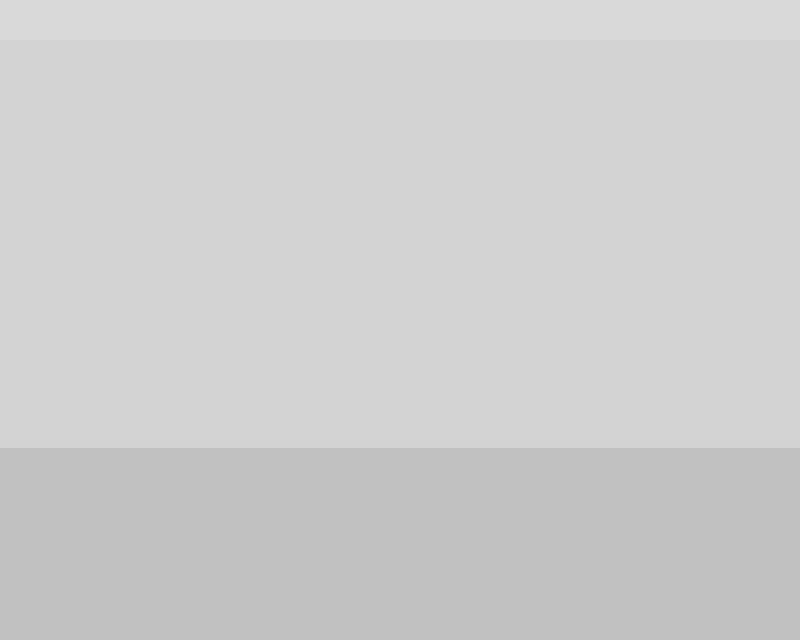
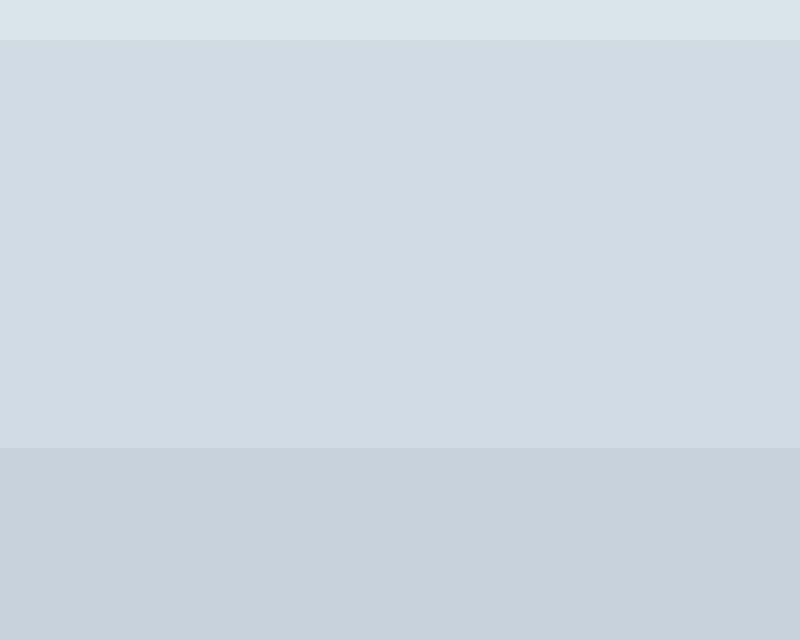
color changes

Changed region(s): [[0.0, 0.6875, 1.0, 1.0]]

diff --git a/css/style.css b/css/style.css
@@ -61,21 +61,21 @@ body img {
 }
 .TopNav div:nth-child(1) {
   /* background-color: #dbe6eb; */
-  background-color: rgb(233, 233, 233);
+  background-color: #f0fcff;
 }
 .TopNav div:nth-child(2) {
   /* background-color: #c6deea; */
-  background-color: rgb(228, 228, 228);
+  background-color: #eafbff;
 }
 .TopNav div:nth-child(3) {
   /* background-color: #bcd9e8; */
-  background-color: rgb(216, 216, 216);
+  background-color: #e2f9ff;
   /*border-bottom: 1vh solid #88afc2; */
-  border-bottom: 1vh solid rgb(169, 169, 169);
+  border-bottom: 1vh solid rgb(192, 205, 212);
 }
 
 .MainContent {
-  background-color: rgb(265, 265, 265);
+  background-color: #f4f9ff;
   min-height: calc(100vh - 15vh - 15vh);
   overflow-y: auto;
   box-sizing: border-box;
@@ -90,15 +90,15 @@ body img {
 }
 .BottomNav > div:nth-child(1) {
   background-color: rgb(245, 245, 245);
-  border-top: 1vh solid rgb(180, 180, 180);
+  border-top: 1vh solid rgb(180, 194, 201);
   /* border-top: 1vh solid #97c0d4; */
   width: 100%;
   z-index: 3;
 }
 .BottomNav > div:nth-child(2) {
-  background-color: rgb(233, 233, 233);
+  background-color: #deecef;
   /* background-color: #dbe6eb; */
-  border-bottom: 1vh solid rgb(190, 190, 190);
+  border-bottom: 1vh solid rgb(193, 212, 214);
   /* border-bottom: 1vh solid #97c0d4; */
   z-index: 3;
 }
@@ -119,7 +119,7 @@ body img {
   width: 25vw;
   height: 12vh;
   border: none;
-  background-color: rgb(213, 213, 213);
+  background-color: #eafbff;
   /* background-color: #c6deea; */
   transition: transform 0.15s ease, box-shadow 0.3s ease;
   text-decoration: none;
@@ -246,7 +246,7 @@ body img {
 .addTask2 {
   bottom: 2vh;
   z-index: 2;
-  filter: invert(90%);
+  filter: saturate(1.5);
 }
 
 .plusImg {
@@ -668,7 +668,6 @@ footer {
   font-family: "Quicksand", sans-serif;
   font-size: 2.5vh;
   font-weight: bold;
-  
 }
 /* Logged in */
 .petBG {
@@ -701,7 +700,7 @@ footer {
 }
 
 .pet-interactions {
-  background-color: rgb(236, 236, 236);
+  background-color: hsl(208, 52%, 95%);
   font-family: "Pixelify Sans";
   width: 25vw;
   height: 5vh;
@@ -760,7 +759,7 @@ footer {
   height: 2.5vh;
 }
 .currencyBox {
-  background-color: #e3e3e3;
+  background-color: hsl(208, 52%, 95%);
   width: 20vw;
   border: 4px solid rgb(104, 104, 104);
   padding-left: 2vw;
@@ -821,9 +820,9 @@ footer {
   width: 20vw;
   text-align: center;
   height: 5vh;
-  background-color: #eeeeee;
+  background-color: hsl(208, 52%, 95%);
   border-radius: 5px;
-  border-color: #b2b2b2;
+  border-color: #c5ced4;
   font-family: "Pixelify Sans";
   font-size: 2vh;
   cursor: pointer;
@@ -831,7 +830,7 @@ footer {
 }
 
 .shopAndInventory button:hover {
-  background-color: #e2e2e2;
+  background-color: hsl(208, 100%, 95%);
   transform: translateX(2px);
 }
 
@@ -875,7 +874,7 @@ footer {
 }
 
 .bagFrameHeader {
-  background-color: #acacac;
+  background-color: #ecf5f9;
   opacity: 90%;
   border-radius: 5px;
   text-align: center;
@@ -894,19 +893,19 @@ footer {
 }
 
 .bagFrameBody {
-  background-color: #e0e0e0;
+  background-color: #d2d9dd;
   opacity: 90%;
   border-radius: 5px;
 }
 /* */
 .shopFrameHeader {
-  background-color: #acacac;
+  background-color: #ecf5f9;
   opacity: 90%;
   border-radius: 5px;
   text-align: center;
 }
 .shopFrameBody {
-  background-color: #e0e0e0;
+  background-color: #d2d9dd;
   opacity: 90%;
   border-radius: 5px;
   align-content: center;
@@ -949,7 +948,7 @@ footer {
   height: 11vh;
   text-align: center;
   font-size: 1.7vh;
-  background-color: #d1d1d1;
+  background-color: #dee5ea;
   border-radius: 5px;
   transition: transform 0.25s ease, box-shadow 0.25s ease,
     background-color 0.25s ease;
@@ -959,10 +958,11 @@ footer {
   width: 13vw;
   height: 2.25vh;
   text-align: center;
-  background-color: #8f8f8f;
+  background-color: #ecf5f9;
   border-radius: 5px;
   font-family: "Pixelify Sans";
   pointer-events: none;
+  font-size: 1.3vh;
 }
 
 .shopItemFooter {
@@ -1041,7 +1041,7 @@ footer {
 
 .account-header {
   font-family: "Quicksand", sans-serif;
-  background-color: #434343;
+  background-color: #4a4e54;
   align-content: center;
   justify-items: center;
   text-align: center;
@@ -1063,7 +1063,7 @@ footer {
 
 .account-stats {
   font-family: "Quicksand", sans-serif;
-  background-color: #f9f9f9;
+  background-color: #edf5ff;
   display: grid;
   grid-template-columns: 1fr 1fr 1fr;
   justify-items: center;
@@ -1073,7 +1073,7 @@ footer {
 }
 
 .login-and-signup {
-  background-color: #ededed;
+  background-color: #eff9fd;
   font-family: "Quicksand", sans-serif;
   display: grid;
   justify-items: center;
@@ -1091,12 +1091,12 @@ footer {
 }
 
 .account-content {
-  background-color: #e1e1e1;
+  background-color: #d5dade;
 }
 .login-and-signup a {
   text-decoration: none;
   color: rgb(255, 255, 255);
-  background-color: #656565;
+  background-color: #5b5f66;
   border-radius: 5px;
   padding: 10px 20px;
   width: 10vw;

diff --git a/html/leaderboard1.html b/html/leaderboard1.html
@@ -46,37 +46,9 @@
             <div><h1>Friends</h1></div>
           </a>
         </div>
-        <div class="container podium">
-          <div class="podium__item">
-            <p id="secondPlaceName" class="podium__city">---</p>
-            <div class="podium__rank second" id="secondPlaceRank">2</div>
-          </div>
+        
 
-          <div class="podium__item">
-            <p id="firstPlaceName" class="podium__city">---</p>
-            <div class="podium__rank first" id="firstPlaceRank">1</div>
-          </div>
-
-          <div class="podium__item">
-            <p id="thirdPlaceName" class="podium__city">---</p>
-            <div class="podium__rank third" id="thirdPlaceRank">3</div>
-          </div>
-        </div>
-
-        <div class="level">
-          <div class="level-up">
-            <div class="myBar">80%</div>
-            <div class="level-number-circle">
-              <span>3</span>
-            </div>
-          </div>
-        </div>
-        <figure class="streaks">
-          <img src="/images/fire.png" alt="fire icon" class="fire-icon" />
-          <figcaption class="streaks-number">5</figcaption>
-          <div class="streaks-text"><p>Daily Streak</p></div>
-        </figure>
-      </div>
+        
       <footer class="BottomNav">
         <div></div>
         <div class="navContainer">

diff --git a/index.html b/index.html
@@ -87,7 +87,7 @@
             <img
               class="addTask2"
               alt="addTask2"
-              src="/images/half-circle.png"
+              src="/images/half-circle2.png"
             />
             <img class="plusImg" alt="plusImg" src="/images/add.png" />
             <a id="addTaskClickable" href="/html/task1.html"></a>

diff --git a/css/faqpage.css b/css/faqpage.css
@@ -15,7 +15,7 @@
   font-weight: bolder;
   margin-bottom: 8px;
   color: #525252;
-  background-color: rgb(231, 231, 231);
+  background-color: rgb(234, 238, 240);
   font-size: 2vh;
 }
 
